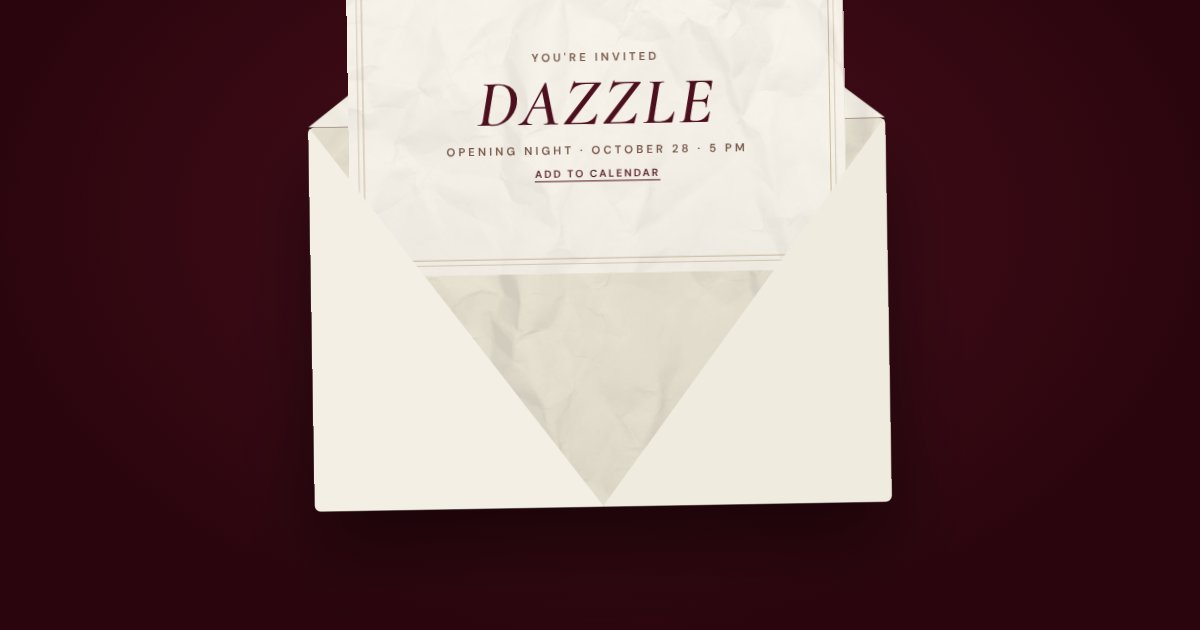
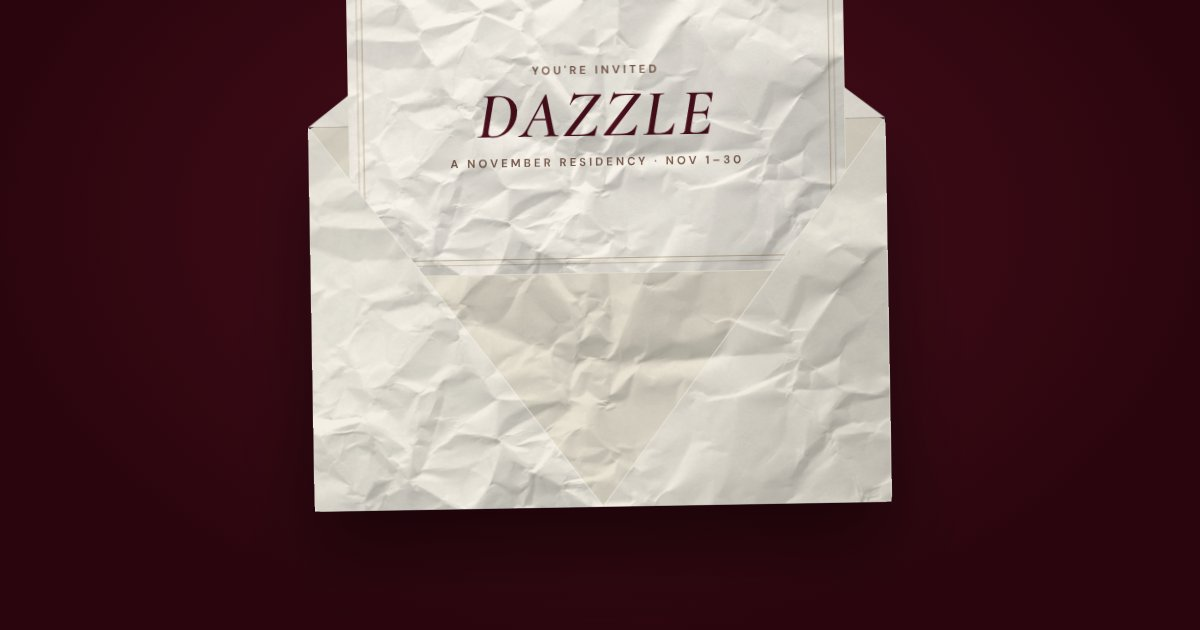
Add files via upload

Changed region(s): [[0.2467, 0.0, 0.74, 0.8143], [0.6167, 0.0, 0.7092, 0.0302]]

diff --git a/index.html b/index.html
@@ -5,20 +5,20 @@
   <meta name="viewport" content="width=device-width,initial-scale=1">
   <meta name="description" content="Dazzle. Photographs by Brianna Rae. November at Wild Tulips, Denver.">
   <meta property="og:title" content="DAZZLE — a photo gallery by Brianna Rae">
-  <meta property="og:description" content="Opening night October 28 · On view all November at Wild Tulips, Denver.">
+  <meta property="og:description" content="A November residency at Wild Tulips, Denver · Nov 1–30.">
   <meta property="og:image" content="https://bergenreese.github.io/dazzle/og.jpg">
   <meta property="og:url" content="https://bergenreese.github.io/dazzle/">
   <meta property="og:type" content="website">
   <meta name="twitter:card" content="summary_large_image">
   <title>Dazzle — Brianna Rae</title>
   <link href="https://fonts.googleapis.com/css2?family=Pinyon+Script&family=Cormorant+Garamond:ital,wght@1,600&family=Barlow+Condensed:wght@600;700;800;900&family=DM+Sans:wght@400;500;600&family=Special+Elite&family=Caveat:wght@500&display=swap" rel="stylesheet">
-  <link rel="stylesheet" href="style.css?v=14">
+  <link rel="stylesheet" href="style.css?v=15">
 </head>
 <body class="gated">
   <div class="envelope-gate" id="gate">
     <div class="env" id="envBtn" role="button" tabindex="0" aria-label="Open the invitation">
       <span class="env-back"></span>
-      <span class="env-letter"><small>You're invited</small><b>DAZZLE</b><small>Opening night · October 28 · 5 PM</small><a class="env-cal" href="https://calendar.google.com/calendar/render?action=TEMPLATE&text=DAZZLE%20%E2%80%94%20Opening%20Night&dates=20261028T170000/20261029T000000&ctz=America/Denver&details=A%20photo%20gallery%20by%20Brianna%20Rae.%20bergenreese.github.io/dazzle&location=Wild%20Tulips%2C%201209%20E%2013th%20Ave%2C%20Denver%2C%20CO%2080218" target="_blank" rel="noopener">Add to calendar</a></span>
+      <span class="env-letter"><small>You're invited</small><b>DAZZLE</b><small>A November residency · Nov 1–30</small></span>
       <span class="env-front"></span>
       <span class="env-flap"></span>
       <span class="env-stitch"><img src="seal.webp" alt="" class="seal-img"></span>
@@ -47,7 +47,8 @@
       >
       <div class="hero-info">
         <span class="hi-label">GALLERY OPEN</span>
-        <strong>Opens Oct 28</strong>
+        <strong>November residency</strong>
+        <span>Nov 1–30</span>
         <span>Framed prints</span>
         <span>1209 E 13th Ave, Denver</span>
       </div>
@@ -117,14 +118,13 @@
         <p class="eyebrow">03 / VISIT</p>
         <h2>Come see it<br><em>in person.</em></h2>
         <a class="button directions" target="_blank" rel="noopener" href="https://www.google.com/maps/search/?api=1&query=1209+E+13th+Ave+Denver+CO+80218">GET DIRECTIONS</a>
-        <p class="cal-links">Opening night · Wednesday, October 28 · 5 PM<br><a target="_blank" rel="noopener" href="https://calendar.google.com/calendar/render?action=TEMPLATE&text=DAZZLE%20%E2%80%94%20Opening%20Night&dates=20261028T170000/20261029T000000&ctz=America/Denver&details=A%20photo%20gallery%20by%20Brianna%20Rae.%20bergenreese.github.io/dazzle&location=Wild%20Tulips%2C%201209%20E%2013th%20Ave%2C%20Denver%2C%20CO%2080218">Google Calendar</a> · <a href="dazzle.ics" download>Apple / Outlook</a></p>
       </div>
       <div class="playing-card">
         <span class="corner">A<br>♥</span>
         <span class="heart" aria-hidden="true">♥</span>
         <p class="invite">You're invited to the gallery.</p>
         <h3>DAZZLE</h3>
-        <p class="when">OPENING OCT 28 · ALL NOVEMBER</p>
+        <p class="when">NOVEMBER RESIDENCY · NOV 1–30</p>
         <hr>
         <p class="venue">WILD TULIPS</p>
         <p class="address">1209 E 13th Ave<br>Denver, Colorado</p>
@@ -179,7 +179,7 @@
     </div>
   </dialog>
 
-  <script src="script.js?v=14"></script>
+  <script src="script.js?v=15"></script>
   <script data-goatcounter="https://briannarae.goatcounter.com/count" async src="//gc.zgo.at/count.js"></script>
 </body>
 </html>
